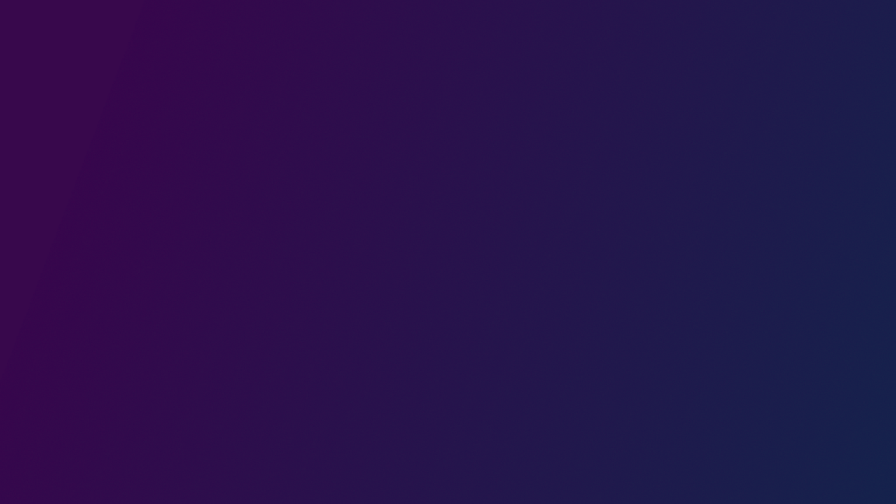
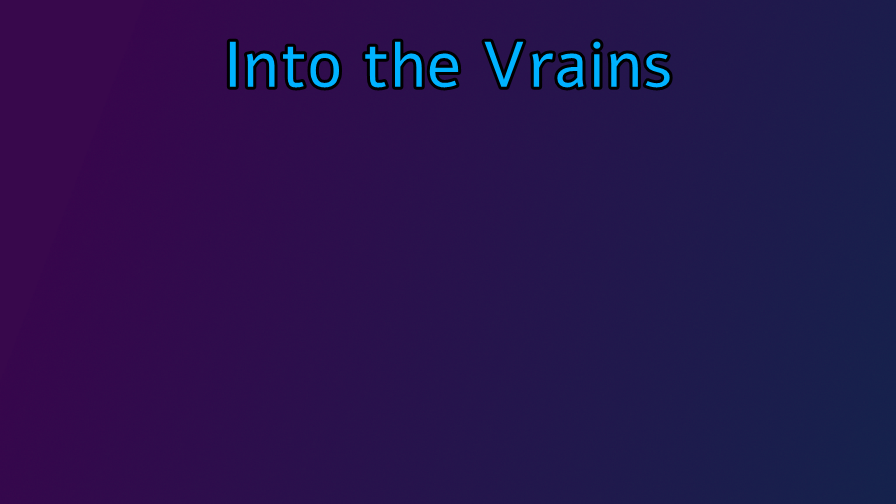
Launcher completed

Changed region(s): [[0.25, 0.0595, 0.75, 0.1786]]

diff --git a/src/jfzmMainMenu/launcher/LauncherFrame.java b/src/jfzmMainMenu/launcher/LauncherFrame.java
@@ -8,8 +8,10 @@ import java.awt.event.ActionListener;
 import javax.swing.BorderFactory;
 import javax.swing.ImageIcon;
 import javax.swing.JButton;
+import javax.swing.JCheckBox;
 import javax.swing.JFrame;
 import javax.swing.JLabel;
+import javax.swing.JOptionPane;
 
 import jfzmMainMenu.components.Frame;
 import jfzmMainMenu.components.sfx.ClickSound;
@@ -22,6 +24,11 @@ public class LauncherFrame extends JFrame implements ActionListener {
 	private JButton optionsButton;
 	private JLabel loading;
 	private JButton exitButton;
+	
+	private JCheckBox borderlessCheck;
+	
+	private JCheckBox res1280;
+	private JCheckBox res1920;
 
 	public LauncherFrame() {
 
@@ -58,6 +65,54 @@ public class LauncherFrame extends JFrame implements ActionListener {
 		exitButton.setBorder(BorderFactory.createLineBorder(Color.white));
 		exitButton.setFocusable(false);
 		jFrame.add(exitButton);
+		
+		JLabel resLabel = new JLabel();
+		resLabel.setText("Resolution");
+		resLabel.setBounds(225, 50,220,220);
+		resLabel.setFont(new Font("Impact", Font.PLAIN, 40));
+		resLabel.setForeground(Color.white);
+		resLabel.setVisible(true);
+		jFrame.add(resLabel);
+		
+		res1280 = new JCheckBox("1280x720");
+		res1280.setVisible(true);
+		res1280.setBounds(250,220,120,50);
+		res1280.addActionListener(this);
+		res1280.setFocusable(false);
+		res1280.setFont(new Font("Impact", Font.PLAIN, 20));
+		res1280.setBackground(Color.blue);
+		res1280.setForeground(Color.white);
+		jFrame.add(res1280);
+		
+		res1920 = new JCheckBox("1920x1080");
+		res1920.setVisible(true);
+		res1920.setBounds(250,320,120,50);
+		res1920.addActionListener(this);
+		res1920.setFocusable(false);
+		res1920.setFont(new Font("Impact", Font.PLAIN, 20));
+		res1920.setBackground(Color.blue);
+		res1920.setForeground(Color.white);
+		res1920.setSelected(true);
+		jFrame.add(res1920);
+		
+		JLabel otherLabel = new JLabel();
+		otherLabel.setText("Other");
+		otherLabel.setBounds(560,50,220,220);
+		otherLabel.setFont(new Font("Impact", Font.PLAIN, 40));
+		otherLabel.setForeground(Color.white);
+		otherLabel.setVisible(true);
+		jFrame.add(otherLabel);
+		
+		borderlessCheck = new JCheckBox("Borderless");
+		borderlessCheck.setVisible(true);
+		borderlessCheck.setBounds(550,220,120,50);
+		borderlessCheck.addActionListener(this);
+		borderlessCheck.setFocusable(false);
+		borderlessCheck.setSelected(true);
+		borderlessCheck.setFont(new Font("Impact", Font.PLAIN, 20));
+		borderlessCheck.setBackground(Color.cyan);
+		borderlessCheck.setForeground(Color.white);
+		jFrame.add(borderlessCheck);
 
 		jFrame.pack();
 		jFrame.setVisible(true);
@@ -68,14 +123,37 @@ public class LauncherFrame extends JFrame implements ActionListener {
 	public void actionPerformed(ActionEvent e) {
 
 		new Thread(new ClickSound()).start();
+		
+		if (e.getSource()== res1280) {
+			if (res1920.isSelected()) {
+				res1920.setSelected(false);
+			} 
+		}
+		
+		if (e.getSource()== res1920) {
+			if (res1280.isSelected()) {
+				res1280.setSelected(false);
+			}
+		}
 
 		if (e.getSource() == startButton) {
-			startButton.setEnabled(false);
-			exitButton.setEnabled(false);
 			new Thread() {
 				public void run() {
-					jFrame.dispose();
+					if (res1280.isSelected()) {
+						Config.res=2;
+					} else if (res1920.isSelected()){
+						Config.res=1;
+					} else {
+						JOptionPane.showMessageDialog(jFrame, "You must choose one resolution!");
+						return;
+					}
 					
+					startButton.setEnabled(false);
+					exitButton.setEnabled(false);
+					
+					Config.borderless=borderlessCheck.isSelected();
+					
+					jFrame.dispose();
 					Config.setMultiplier();
 					Frame frame = new Frame(Config.x, Config.y);
 					MenuPanel initialPanel = new MenuPanel(frame.getJFrame());
@@ -86,10 +164,6 @@ public class LauncherFrame extends JFrame implements ActionListener {
 					
 				}
 			}.start();
-		}
-
-		if (e.getSource() == optionsButton) {
-			
 		}
 
 		if (e.getSource() == exitButton) {
@@ -104,3 +178,5 @@ public class LauncherFrame extends JFrame implements ActionListener {
 	}
 
 }
+
+

diff --git a/src/jfzmMainMenu/components/Label.java b/src/jfzmMainMenu/components/Label.java
@@ -23,7 +23,6 @@ public class Label implements FrameComponent {
 		Image originalImage = originalIcon.getImage();
 		Image resizedImage = originalImage.getScaledInstance((int)(xSize*Config.multiplier),(int) (ySize*Config.multiplier),  java.awt.Image.SCALE_SMOOTH); 
 		ImageIcon icon = new ImageIcon(resizedImage);
-		
 		label.setIcon(icon);
 		label.setBounds((int) (x * Config.multiplier), (int) (y * Config.multiplier), (int) (xSize * Config.multiplier),
 				(int) (ySize * Config.multiplier));

diff --git a/src/jfzmMainMenu/components/Frame.java b/src/jfzmMainMenu/components/Frame.java
@@ -40,7 +40,7 @@ public class Frame {
 		frame.setVisible(true);
 		ImageIcon windowIcon = new ImageIcon(getClass().getClassLoader().getResource("windowIcon.jpg"));
 		frame.setIconImage(windowIcon.getImage());
-		frame.setTitle("VRAINS Evolution");
+		frame.setTitle("Into the Vrains");
 		frame.setResizable(false);
 		frame.pack();
 		frame.setVisible(true);
